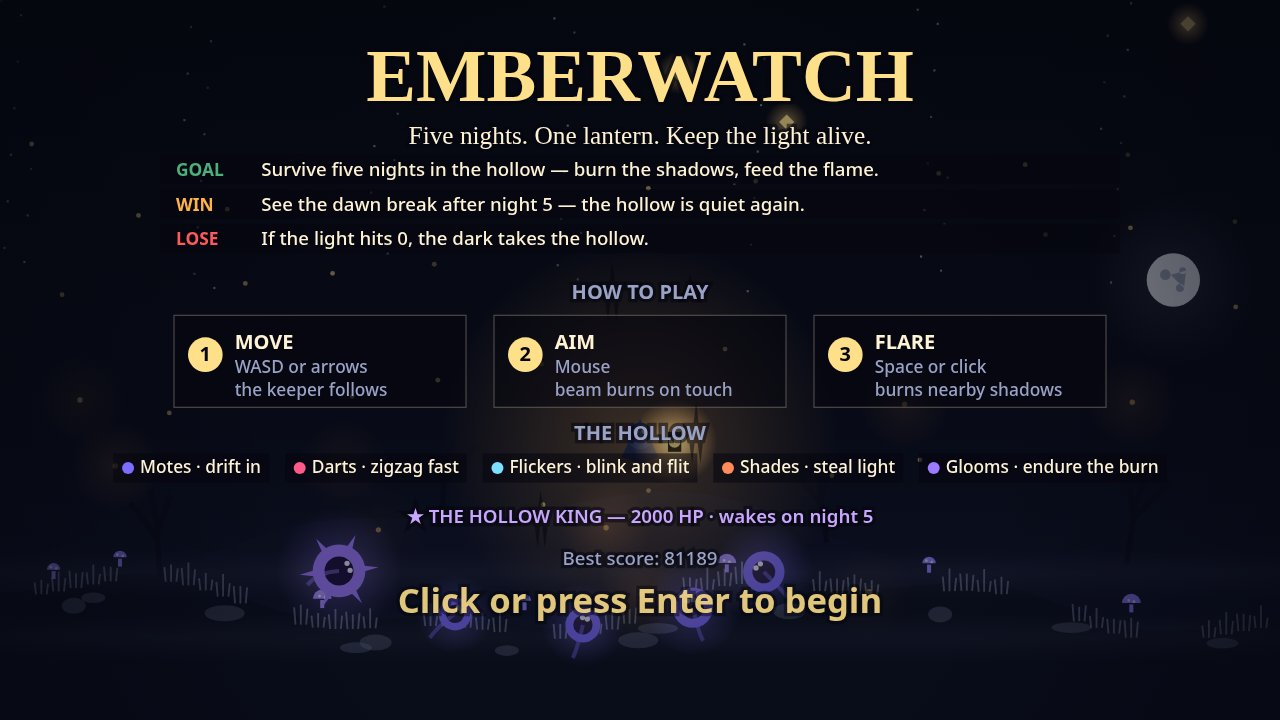
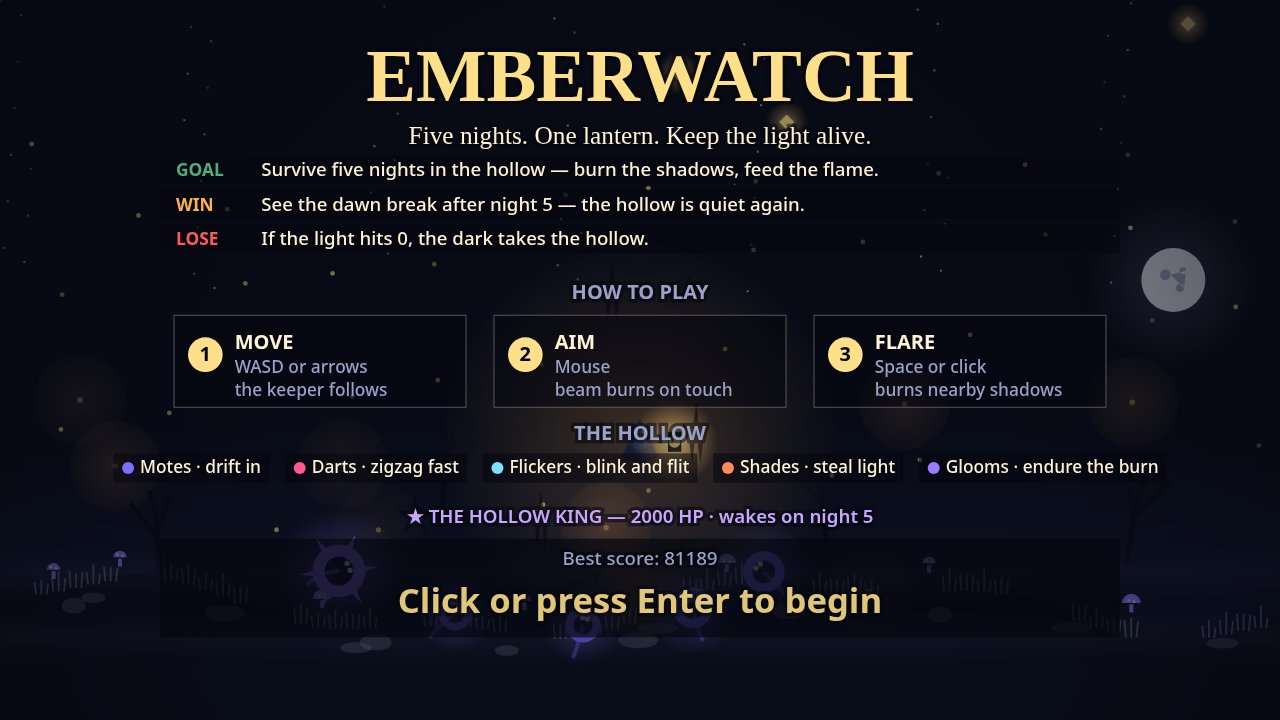
v5: brighter hollow, boss face and crown band, dawn scene, readable title/win text

diff --git a/game/src/render.js b/game/src/render.js
@@ -208,6 +208,38 @@ function drawBoss(ctx, world) {
   ctx.arc(boss.x + Math.cos(look + 0.32) * r * 0.42, boss.y + Math.sin(look + 0.32) * r * 0.42, 4, 0, Math.PI * 2);
   ctx.fill();
 
+  // A face the judge remembers, drawn in the frame that faces the keeper:
+  // angry brows slanted at him, a frown under the burning eyes, a gold band
+  // where the crown spikes rise, and a faint aura ring around the whole king.
+  ctx.save();
+  ctx.translate(boss.x, boss.y);
+  ctx.rotate(look);
+  ctx.strokeStyle = '#241a4a';
+  ctx.lineWidth = 3.5;
+  for (const side of [-1, 1]) {
+    ctx.beginPath();
+    ctx.moveTo(r * 0.22, side * r * 0.26);
+    ctx.lineTo(r * 0.34, side * r * 0.10);
+    ctx.stroke();
+  }
+  ctx.beginPath();
+  ctx.moveTo(r * 0.52, -r * 0.20);
+  ctx.quadraticCurveTo(r * 0.74, 0, r * 0.52, r * 0.20);
+  ctx.stroke();
+  ctx.restore();
+  // Gold band at the base of the crown spikes.
+  ctx.strokeStyle = '#ffd76a';
+  ctx.lineWidth = 6;
+  ctx.beginPath();
+  ctx.arc(boss.x, boss.y, r * 0.82, 0, Math.PI * 2);
+  ctx.stroke();
+  // Faint aura ring, so the king reads as the centre of the fight.
+  ctx.strokeStyle = 'rgba(201, 166, 255, 0.16)';
+  ctx.lineWidth = 3;
+  ctx.beginPath();
+  ctx.arc(boss.x, boss.y, r * 1.9, 0, Math.PI * 2);
+  ctx.stroke();
+
   // His health bar, floating above him in the field — not hidden under a panel.
   const bw = 150;
   const bx = boss.x - bw / 2;
@@ -269,7 +301,7 @@ function drawVignette(ctx, world) {
   const radius = 240 + light * 360;
   const grad = ctx.createRadialGradient(world.keeper.x, world.keeper.y, radius * 0.45, world.keeper.x, world.keeper.y, radius);
   grad.addColorStop(0, 'rgba(5, 6, 16, 0)');
-  grad.addColorStop(1, 'rgba(5, 6, 16, 0.72)');
+  grad.addColorStop(1, 'rgba(5, 6, 16, 0.60)');
   ctx.fillStyle = grad;
   ctx.fillRect(0, 0, FIELD.width, FIELD.height);
   if (world.flash > 0) {
@@ -612,6 +644,10 @@ function drawTitle(ctx, world) {
   });
   centerText(ctx, '★ THE HOLLOW KING — 2000 HP · wakes on night 5', 392, '600 14px system-ui, -apple-system, sans-serif', '#c9a6ff');
 
+  // A solid dark band behind the closing lines: the title world's wisps orbit
+  // right through this strip, and the words must read over them, never under.
+  ctx.fillStyle = 'rgba(5, 6, 15, 0.68)';
+  ctx.fillRect(120, 404, 720, 74);
   if (world.best > 0) centerText(ctx, `Best score: ${world.best}`, 424, HINT_FONT, COLORS.dim);
   const pulse = 0.65 + 0.35 * Math.sin(world.time * 3);
   ctx.globalAlpha = pulse;
@@ -619,8 +655,11 @@ function drawTitle(ctx, world) {
   ctx.globalAlpha = 1;
 }
 
-function drawDawn(ctx) {
-  // The dawn itself: a warm sky, a rising sun and its rays over the hollow.
+function drawDawn(ctx, world) {
+  // The dawn itself: a warm sky, a low sun rising over the ridge, the keeper
+  // standing with the lantern held high, and the Hollow King's fallen crown
+  // on the ridge — a scene, not a flat gradient. The sun sits low and clear
+  // of every line of text, so no ray ever crosses a word.
   const sky = ctx.createLinearGradient(0, 0, 0, FIELD.height);
   sky.addColorStop(0, 'rgba(26, 18, 8, 0.96)');
   sky.addColorStop(0.45, 'rgba(122, 61, 18, 0.96)');
@@ -629,35 +668,115 @@ function drawDawn(ctx) {
   ctx.fillStyle = sky;
   ctx.fillRect(0, 0, FIELD.width, FIELD.height);
   const sunX = FIELD.width / 2;
-  const sunY = 468;
+  const sunY = 505;
   ctx.save();
   ctx.globalCompositeOperation = 'lighter';
-  const halo = ctx.createRadialGradient(sunX, sunY, 10, sunX, sunY, 150);
+  const halo = ctx.createRadialGradient(sunX, sunY, 10, sunX, sunY, 130);
   halo.addColorStop(0, 'rgba(255, 240, 200, 0.8)');
   halo.addColorStop(1, 'rgba(255, 200, 90, 0)');
   ctx.fillStyle = halo;
   ctx.beginPath();
-  ctx.arc(sunX, sunY, 150, 0, Math.PI * 2);
+  ctx.arc(sunX, sunY, 130, 0, Math.PI * 2);
   ctx.fill();
   ctx.restore();
   ctx.fillStyle = '#fff3d6';
   ctx.beginPath();
-  ctx.arc(sunX, sunY, 40, 0, Math.PI * 2);
+  ctx.arc(sunX, sunY, 34, 0, Math.PI * 2);
   ctx.fill();
   ctx.strokeStyle = 'rgba(255, 243, 214, 0.5)';
   ctx.lineWidth = 3;
   for (let i = 0; i < 12; i += 1) {
     const a = (i / 12) * Math.PI * 2;
     ctx.beginPath();
-    ctx.moveTo(sunX + Math.cos(a) * 50, sunY + Math.sin(a) * 50);
-    ctx.lineTo(sunX + Math.cos(a) * 74, sunY + Math.sin(a) * 74);
+    ctx.moveTo(sunX + Math.cos(a) * 42, sunY + Math.sin(a) * 42);
+    ctx.lineTo(sunX + Math.cos(a) * 62, sunY + Math.sin(a) * 62);
     ctx.stroke();
   }
+
+  // The ridge the dawn breaks over, dark against the bright sky.
+  ctx.fillStyle = '#1a1208';
+  ctx.beginPath();
+  ctx.moveTo(0, FIELD.height);
+  for (let x = 0; x <= FIELD.width; x += 16) {
+    ctx.lineTo(x, 512 + Math.sin(x * 0.011 + 4.0) * 6);
+  }
+  ctx.lineTo(FIELD.width, FIELD.height);
+  ctx.closePath();
+  ctx.fill();
+
+  // The keeper at dawn: cloak, hood, and the lantern held high.
+  const kx = 260;
+  const ky = 512;
+  ctx.fillStyle = '#232c52';
+  ctx.beginPath();
+  ctx.moveTo(kx, ky - 62);
+  ctx.lineTo(kx - 16, ky);
+  ctx.lineTo(kx + 16, ky);
+  ctx.closePath();
+  ctx.fill();
+  ctx.fillStyle = '#2e3a68';
+  ctx.beginPath();
+  ctx.arc(kx, ky - 66, 11, 0, Math.PI * 2);
+  ctx.fill();
+  ctx.strokeStyle = '#232c52';
+  ctx.lineWidth = 5;
+  ctx.beginPath();
+  ctx.moveTo(kx + 8, ky - 40);
+  ctx.lineTo(kx + 26, ky - 74);
+  ctx.stroke();
+  ctx.save();
+  ctx.globalCompositeOperation = 'lighter';
+  const lamp = ctx.createRadialGradient(kx + 26, ky - 78, 2, kx + 26, ky - 78, 30);
+  lamp.addColorStop(0, 'rgba(255, 224, 138, 0.9)');
+  lamp.addColorStop(1, 'rgba(255, 179, 71, 0)');
+  ctx.fillStyle = lamp;
+  ctx.beginPath();
+  ctx.arc(kx + 26, ky - 78, 30, 0, Math.PI * 2);
+  ctx.fill();
+  ctx.restore();
+  ctx.fillStyle = COLORS.flame;
+  ctx.beginPath();
+  ctx.arc(kx + 26, ky - 78, 5, 0, Math.PI * 2);
+  ctx.fill();
+
+  // The Hollow King's fallen crown, gold and fading on the ridge.
+  ctx.save();
+  ctx.translate(680, 524);
+  ctx.rotate(-0.35);
+  ctx.globalAlpha = 0.9;
+  ctx.fillStyle = '#c9a6ff';
+  for (let s = 0; s < 5; s += 1) {
+    const x = -24 + s * 12;
+    ctx.beginPath();
+    ctx.moveTo(x - 5, 0);
+    ctx.lineTo(x, -16 - (s % 2) * 5);
+    ctx.lineTo(x + 5, 0);
+    ctx.closePath();
+    ctx.fill();
+  }
+  ctx.fillStyle = '#ffd76a';
+  ctx.fillRect(-28, -2, 56, 6);
+  ctx.restore();
+
+  // Embers rising off the ridge into the dawn, fixed by index and the clock.
+  ctx.save();
+  ctx.globalCompositeOperation = 'lighter';
+  for (let i = 0; i < 14; i += 1) {
+    const ex = (i * 137.5 + 40) % FIELD.width;
+    const ey = FIELD.height - ((i * 53.7 + world.time * 14) % 70);
+    ctx.globalAlpha = 0.35 + 0.45 * Math.abs(Math.sin(world.time * 1.2 + i));
+    ctx.fillStyle = '#ffe08a';
+    ctx.beginPath();
+    ctx.arc(ex, ey, 2.2, 0, Math.PI * 2);
+    ctx.fill();
+  }
+  ctx.restore();
+  ctx.globalAlpha = 1;
 }
 
 function drawEnd(ctx, world, won) {
   if (won) {
-    drawDawn(ctx);
+    drawDawn(ctx, world);
     centerText(ctx, 'DAWN BREAKS', 190, TITLE_FONT, COLORS.flame);
     centerText(ctx, 'The hollow is quiet again. Five nights survived.', 232, '500 19px Georgia, serif', COLORS.paper);
   } else {

diff --git a/game/src/hollow.js b/game/src/hollow.js
@@ -10,9 +10,9 @@ function hillNearY(x) {
 
 function drawSky(ctx) {
   const sky = ctx.createLinearGradient(0, 0, 0, FIELD.height);
-  sky.addColorStop(0, '#070912');
+  sky.addColorStop(0, '#0b0e1c');
   sky.addColorStop(0.6, COLORS.ink);
-  sky.addColorStop(1, COLORS.ground);
+  sky.addColorStop(1, '#1a2140');
   ctx.fillStyle = sky;
   ctx.fillRect(0, 0, FIELD.width, FIELD.height);
 }
@@ -24,7 +24,7 @@ function drawMoon(ctx, world) {
   ctx.save();
   ctx.globalCompositeOperation = 'lighter';
   const halo = ctx.createRadialGradient(mx, my, 6, mx, my, 64);
-  halo.addColorStop(0, 'rgba(220, 228, 255, 0.12)');
+  halo.addColorStop(0, 'rgba(220, 228, 255, 0.18)');
   halo.addColorStop(1, 'rgba(220, 228, 255, 0)');
   ctx.fillStyle = halo;
   ctx.beginPath();
@@ -33,7 +33,7 @@ function drawMoon(ctx, world) {
   ctx.restore();
   ctx.fillStyle = '#f2f6ff';
   ctx.beginPath();
-  ctx.arc(mx, my, 20, 0, Math.PI * 2);
+  ctx.arc(mx, my, 24, 0, Math.PI * 2);
   ctx.fill();
   ctx.fillStyle = 'rgba(140, 150, 190, 0.7)';
   ctx.beginPath();
@@ -49,7 +49,7 @@ function drawStars(ctx) {
   for (let i = 0; i < 70; i += 1) {
     const x = (i * 137.5) % FIELD.width;
     const y = (i * 89.3) % 220;
-    ctx.globalAlpha = 0.25 + 0.35 * Math.abs(Math.sin(i * 1.7));
+    ctx.globalAlpha = 0.3 + 0.4 * Math.abs(Math.sin(i * 1.7));
     ctx.fillRect(x, y, 1.6, 1.6);
   }
   ctx.globalAlpha = 1;
@@ -128,10 +128,10 @@ function drawDeadTrees(ctx) {
 
 function drawFireflies(ctx, world) {
   // Warm dots drifting on slow sines, always in the same place at the same time.
-  for (let i = 0; i < 26; i += 1) {
+  for (let i = 0; i < 34; i += 1) {
     const x = (i * 173.3 + Math.sin(world.time * 0.23 + i * 2.1) * 26) % FIELD.width;
     const y = 90 + ((i * 61.7) % 300) + Math.sin(world.time * 0.31 + i * 1.3) * 18;
-    ctx.globalAlpha = 0.25 + 0.45 * Math.abs(Math.sin(world.time * 0.9 + i));
+    ctx.globalAlpha = 0.35 + 0.5 * Math.abs(Math.sin(world.time * 0.9 + i));
     ctx.fillStyle = COLORS.flame;
     ctx.beginPath();
     ctx.arc(x < 0 ? x + FIELD.width : x, y, 1.8, 0, Math.PI * 2);
@@ -146,10 +146,10 @@ function drawGroundGlows(ctx, world) {
   for (let i = 0; i < 9; i += 1) {
     const x = (i * 197.3 + 60) % FIELD.width;
     const y = 300 + ((i * 47.9) % 190);
-    const pulse = 0.1 + 0.06 * Math.sin(world.time * 0.7 + i * 2.3);
+    const pulse = 0.16 + 0.08 * Math.sin(world.time * 0.7 + i * 2.3);
     ctx.save();
     ctx.globalCompositeOperation = 'lighter';
-    const glow = ctx.createRadialGradient(x, y, 1, x, y, 34);
+    const glow = ctx.createRadialGradient(x, y, 1, x, y, 44);
     glow.addColorStop(0, `rgba(255, 154, 60, ${pulse})`);
     glow.addColorStop(1, 'rgba(255, 154, 60, 0)');
     ctx.fillStyle = glow;

diff --git a/game/src/beam.js b/game/src/beam.js
@@ -19,7 +19,7 @@ export function drawBeam(ctx, keeper, time) {
   // A faint wide halo around the whole cone, so the light dominates the dark.
   const haloHalf = half * 1.5;
   const halo = ctx.createLinearGradient(keeper.x, keeper.y, tipX, tipY);
-  halo.addColorStop(0, 'rgba(255, 179, 71, 0.18)');
+  halo.addColorStop(0, 'rgba(255, 179, 71, 0.24)');
   halo.addColorStop(1, 'rgba(255, 179, 71, 0)');
   ctx.fillStyle = halo;
   ctx.beginPath();
@@ -31,7 +31,7 @@ export function drawBeam(ctx, keeper, time) {
 
   // Wide soft cone.
   const wash = ctx.createLinearGradient(keeper.x, keeper.y, tipX, tipY);
-  wash.addColorStop(0, 'rgba(255, 179, 71, 0.55)');
+  wash.addColorStop(0, 'rgba(255, 179, 71, 0.68)');
   wash.addColorStop(1, 'rgba(255, 179, 71, 0)');
   ctx.fillStyle = wash;
   ctx.beginPath();
@@ -44,7 +44,7 @@ export function drawBeam(ctx, keeper, time) {
   // Bright inner core, half as wide.
   const coreHalf = half * 0.5;
   const core = ctx.createLinearGradient(keeper.x, keeper.y, tipX, tipY);
-  core.addColorStop(0, 'rgba(255, 224, 138, 0.75)');
+  core.addColorStop(0, 'rgba(255, 224, 138, 0.85)');
   core.addColorStop(1, 'rgba(255, 224, 138, 0)');
   ctx.fillStyle = core;
   ctx.beginPath();

diff --git a/README.md b/README.md
@@ -7,7 +7,9 @@
 A lantern-keeper arcade game for the [make.fun best-game-01](https://make.fun/bounty/best-game-01) bounty.
 You are the keeper of the last lantern in a dark hollow. Light is your weapon and your life:
 burn the shadow wisps with your beam, gather fallen embers to feed the flame, and survive
-all five nights until dawn breaks. When the light dies, the dark takes the hollow.
+all five nights until dawn breaks. When the light dies, the dark takes the hollow. The
+Hollow King wears a crown and a frown, and the dawn screen shows the keeper standing on
+the ridge with the lantern raised, the king's fallen crown at his feet.
 
 ## How to play
 
